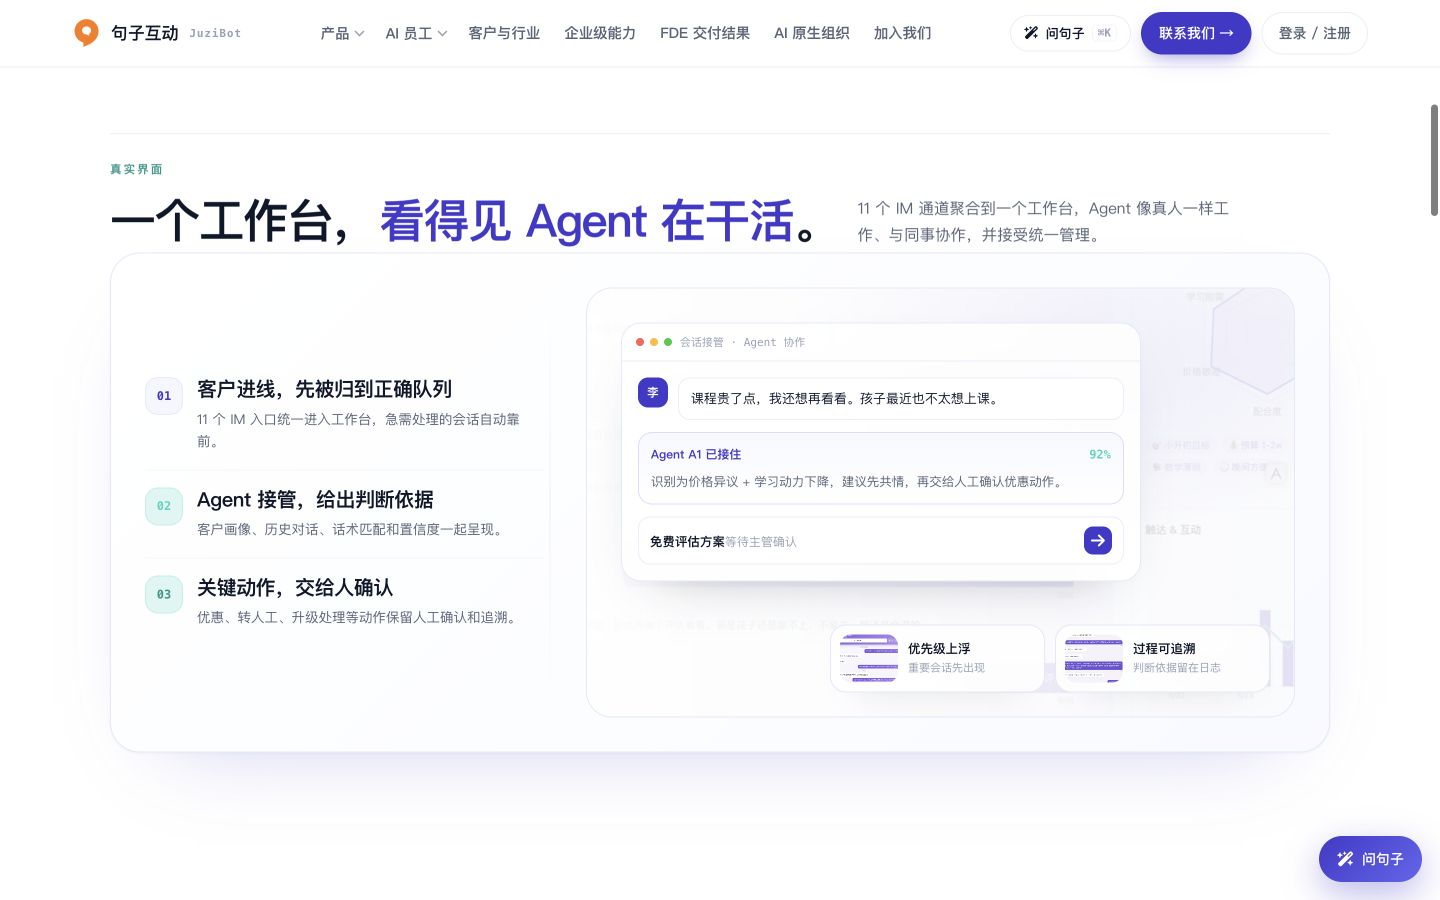
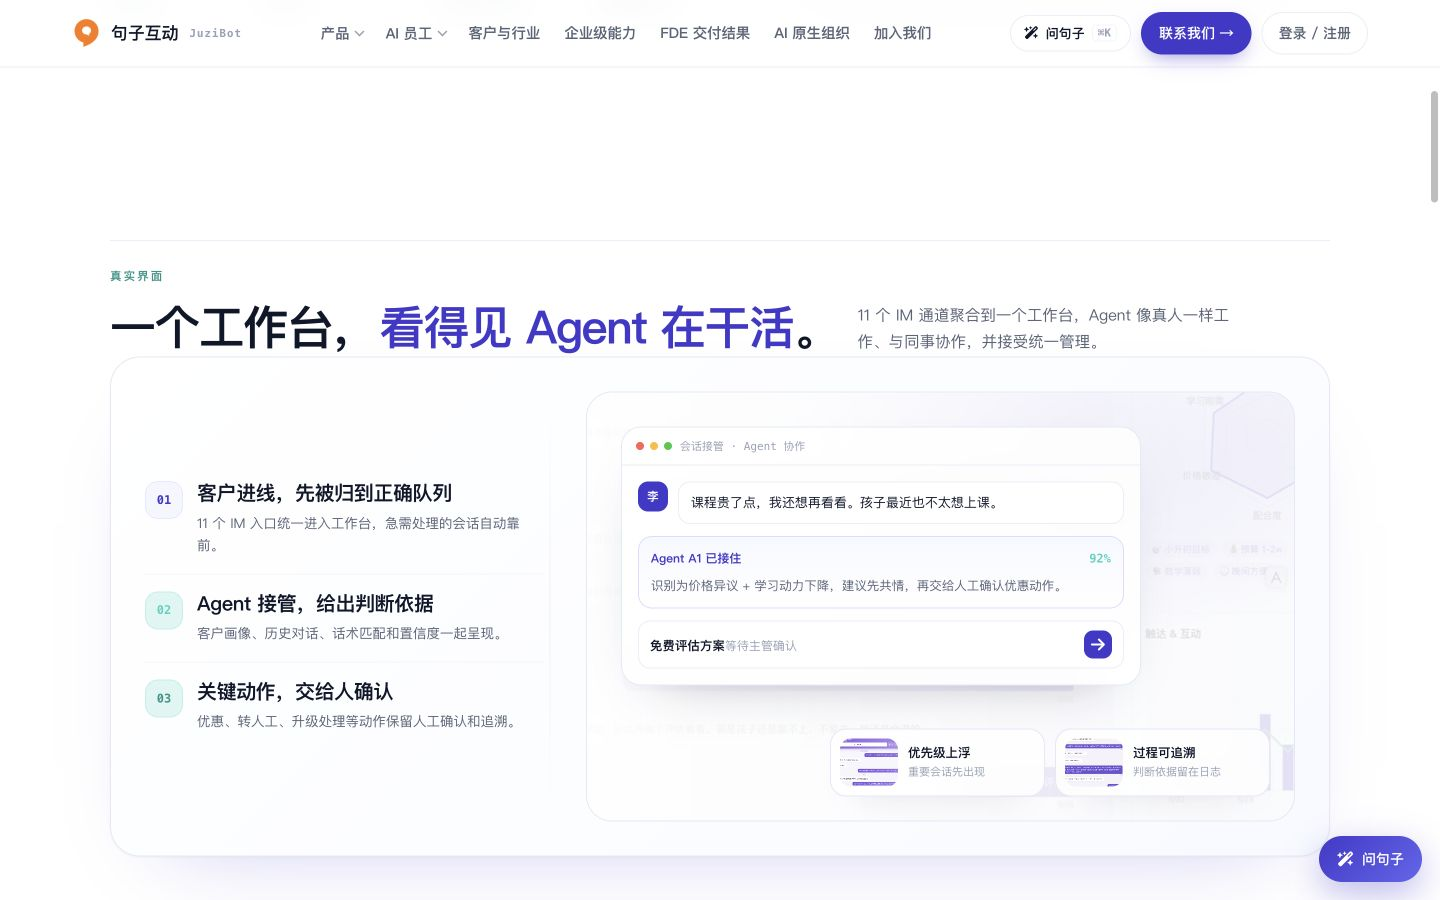
fix(miaohui): address pr94 review feedback

diff --git a/products/miaohui.html b/products/miaohui.html
@@ -22,6 +22,7 @@
   .crumbs .sep{color:var(--line)}
   .crumbs .here{color:var(--ink-2);font-weight:650}
   .ph-grid{display:grid;grid-template-columns:1.02fr .98fr;gap:clamp(30px,4vw,56px);align-items:center}
+  .ph-art{min-width:0}
   .ph h1{font-size:clamp(34px,5vw,64px);font-weight:850;letter-spacing:-.04em;line-height:1.12;
     max-width:20ch;word-break:keep-all;text-wrap:balance;margin-bottom:clamp(14px,2vw,24px)}
   .ph h1 .accent{color:var(--blue)}
@@ -42,7 +43,7 @@
     radial-gradient(280px 160px at 76% 18%,rgba(45,212,191,.12),transparent 72%),
     linear-gradient(180deg,#FFFFFF,#F7F9FF);padding:clamp(14px,1.7vw,20px)}
   .ph-focus::before{content:"";position:absolute;inset:auto 8% 0 20%;height:1px;background:linear-gradient(90deg,transparent,var(--blue-200),transparent);opacity:.55}
-  .focus-grid{position:relative;z-index:1;display:grid;grid-template-columns:minmax(300px,1.58fr) minmax(150px,.78fr);
+  .focus-grid{position:relative;z-index:1;display:grid;grid-template-columns:minmax(0,1.58fr) minmax(136px,.72fr);
     gap:10px;align-items:stretch}
   .focus-pane{min-width:0;border:1px solid rgba(226,232,245,.92);background:#fff;
     border-radius:12px;box-shadow:0 10px 24px -22px rgba(14,20,48,.45)}
@@ -107,10 +108,15 @@
     display:grid;place-items:center;transition:background .2s,transform .2s}
   .wbm-x:hover{background:var(--blue);transform:scale(1.06)}
   @media(prefers-reduced-motion:reduce){.wbm.open,.wbm.closing,.wbm.open .wbm-panel,.wbm.closing .wbm-panel{animation:none}}
+  @media(min-width:981px) and (max-width:1180px){
+    .ph-grid{grid-template-columns:minmax(0,.82fr) minmax(500px,1.18fr);gap:clamp(22px,3vw,34px)}
+    .ph h1{font-size:clamp(34px,4.7vw,56px)}
+    .ph-lede{font-size:16px}
+  }
   @media(max-width:980px){
     .ph-grid{grid-template-columns:1fr;gap:clamp(40px,7vw,56px)}
     .ph-art{order:2}
-    .focus-grid{grid-template-columns:minmax(260px,1fr) minmax(150px,.64fr)}
+    .focus-grid{grid-template-columns:minmax(0,1fr) minmax(144px,.64fr)}
   }
   @media(max-width:560px){
     .ph-focus{padding:14px}
@@ -341,7 +347,7 @@
               <span class="t">句子秒回 · 聚合聊天工作台</span>
               <button class="ph-zoom" type="button" onclick="wbOpen()" aria-label="查看完整工作台演示"><i class="fa-solid fa-up-right-and-down-left-from-center" aria-hidden="true"></i> 完整工作台</button>
             </div>
-            <div class="ph-focus" aria-label="句子秒回 Agent 协作工作台局部示意">
+            <div class="ph-focus" role="group" aria-label="句子秒回 Agent 协作工作台局部示意">
               <div class="focus-grid">
                 <section class="focus-pane focus-chat" aria-label="Agent 协作会话">
                   <div class="chat-head">
@@ -352,7 +358,7 @@
                         <div class="chat-sub">抖音私信 · 所在群：福利交流群</div>
                       </div>
                     </div>
-                    <span class="intent-pill"><i class="fa-solid fa-bolt"></i> 高意向 92%</span>
+                    <span class="intent-pill"><i class="fa-solid fa-bolt" aria-hidden="true"></i> 高意向 92%</span>
                   </div>
                   <div class="focus-msg customer">课程贵了点，我还想再看看。孩子最近也不太想上课。</div>
                   <div class="agent-card">
@@ -362,7 +368,7 @@
                   <div class="focus-msg agent">理解，孩子状态我们也很在意。方便先了解下这两周卡在哪些点吗？</div>
                   <div class="assist-row">
                     <div class="assist-copy">AI 建议：免费评估 · 转人工确认</div>
-                    <button class="assist-send" type="button" aria-label="发送 AI 建议"><i class="fa-solid fa-paper-plane" aria-hidden="true"></i></button>
+                    <span class="assist-send" aria-hidden="true"><i class="fa-solid fa-paper-plane" aria-hidden="true"></i></span>
                   </div>
                 </section>
 